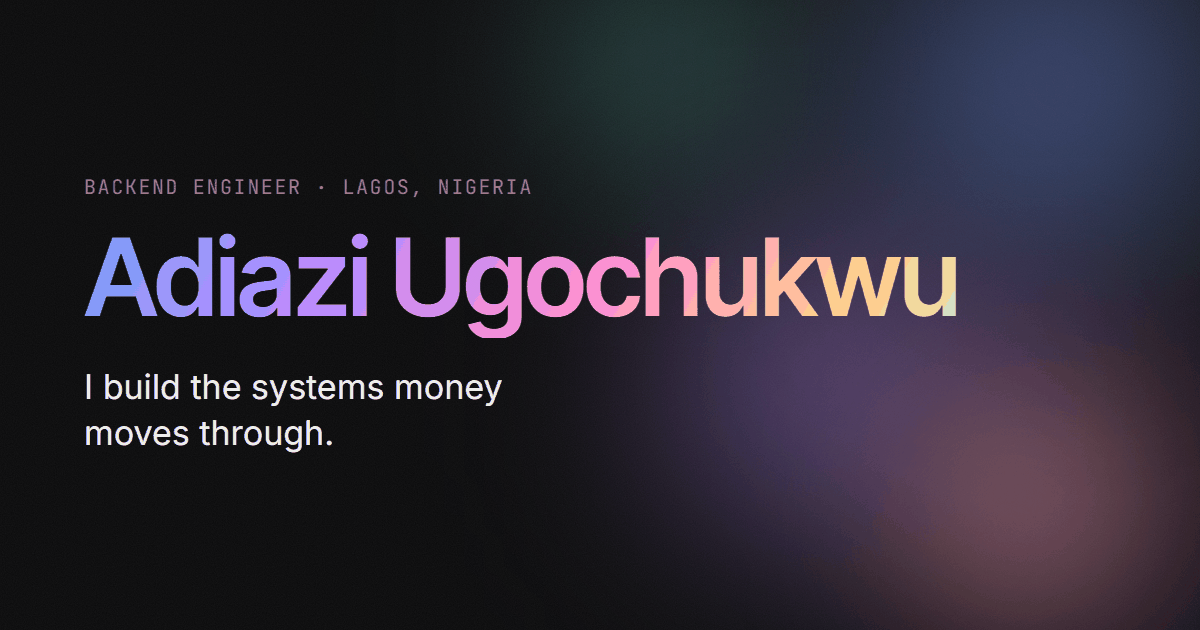
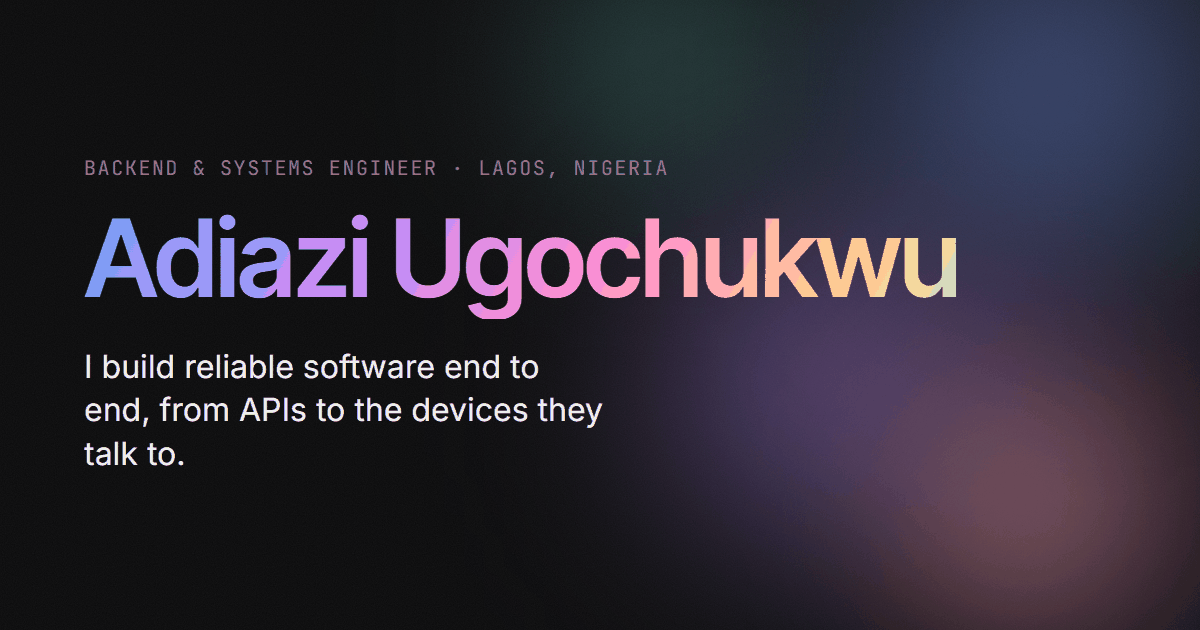
update

Changed region(s): [[0.0617, 0.2413, 0.8017, 0.5429], [0.0617, 0.5429, 0.5242, 0.754]]

diff --git a/index.html b/index.html
@@ -3,8 +3,8 @@
 <head>
   <meta charset="utf-8">
   <meta name="viewport" content="width=device-width, initial-scale=1">
-  <title>Adiazi Ugochukwu | Backend Engineer</title>
-  <meta name="description" content="Adiazi Ugochukwu is the co-founder and CTO of NePay and a backend engineer in Lagos building ledgers, payment rails and real time services.">
+  <title>Adiazi Ugochukwu | Backend &amp; Systems Engineer</title>
+  <meta name="description" content="Adiazi Ugochukwu is a backend and systems engineer in Lagos, and co-founder and CTO of NePay. He builds APIs, databases, real time services and embedded systems.">
   <meta name="author" content="Adiazi Ugochukwu">
   <meta name="theme-color" content="#0A0A0B" media="(prefers-color-scheme: dark)">
   <meta name="theme-color" content="#FAFAF9" media="(prefers-color-scheme: light)">
@@ -12,19 +12,19 @@
   <link rel="canonical" href="https://adiazi-ugochukwu-precious.vercel.app/">
   <meta property="og:type" content="website">
   <meta property="og:site_name" content="Adiazi Ugochukwu">
-  <meta property="og:title" content="Adiazi Ugochukwu | Backend Engineer">
-  <meta property="og:description" content="I build the systems money moves through: ledgers, payment rails and real time services.">
+  <meta property="og:title" content="Adiazi Ugochukwu | Backend &amp; Systems Engineer">
+  <meta property="og:description" content="I build reliable software end to end: APIs, databases, real time services and the devices they talk to.">
   <meta property="og:url" content="https://adiazi-ugochukwu-precious.vercel.app/">
   <meta property="og:image" content="https://adiazi-ugochukwu-precious.vercel.app/og-image.png">
   <meta property="og:image:width" content="1200">
   <meta property="og:image:height" content="630">
-  <meta property="og:image:alt" content="Adiazi Ugochukwu, backend engineer">
+  <meta property="og:image:alt" content="Adiazi Ugochukwu, backend and systems engineer">
   <meta name="twitter:card" content="summary_large_image">
   <meta name="twitter:site" content="@AdiaziU">
-  <meta name="twitter:title" content="Adiazi Ugochukwu | Backend Engineer">
-  <meta name="twitter:description" content="I build the systems money moves through: ledgers, payment rails and real time services.">
+  <meta name="twitter:title" content="Adiazi Ugochukwu | Backend &amp; Systems Engineer">
+  <meta name="twitter:description" content="I build reliable software end to end: APIs, databases, real time services and the devices they talk to.">
   <meta name="twitter:image" content="https://adiazi-ugochukwu-precious.vercel.app/og-image.png">
-  <meta name="twitter:image:alt" content="Adiazi Ugochukwu, backend engineer">
+  <meta name="twitter:image:alt" content="Adiazi Ugochukwu, backend and systems engineer">
   <link rel="icon" href="favicon.svg" type="image/svg+xml">
   <link rel="apple-touch-icon" href="apple-touch-icon.png">
 
@@ -95,31 +95,31 @@
 
       <div class="container hero__grid">
         <div class="hero__text">
-          <p class="label reveal">Backend engineer · Lagos, Nigeria</p>
+          <p class="label reveal">Backend &amp; systems engineer · Lagos, Nigeria</p>
           <h1 class="hero__name reveal" id="hero-name"><span class="chroma-text">Adiazi Ugochukwu</span></h1>
-          <p class="hero__line blur-text">I build the systems money moves through: ledgers, payment rails and real time services.</p>
+          <p class="hero__line blur-text">I build reliable software end to end: APIs, databases, real time services and the devices they talk to.</p>
           <div class="hero__cta reveal">
             <a class="btn btn--primary" href="#work">View my work</a>
             <a class="btn btn--ghost" href="cv/Adiazi_Ugochukwu_CV.pdf" download>Download CV</a>
           </div>
           <ul class="chips reveal" aria-label="Highlights">
             <li class="chip">Co-founder &amp; CTO @ NePay</li>
-            <li class="chip">Payments &amp; KYC integrations</li>
+            <li class="chip">Backend · Real time · Embedded</li>
             <li class="chip">Systems Engineering, UNILAG</li>
           </ul>
         </div>
 
-        <!--
-          Optional 3D chrome/iridescent object. To enable, add images/chroma-object.webp
-          (must be 200 KB or less, WebP, square works best) and uncomment the figure below.
-          It stays commented out by default so a missing file never causes a 404.
-          The layout is complete without it.
-        -->
-        <!--
-        <figure class="hero__object">
-          <img src="images/chroma-object.webp" width="520" height="520" alt="" fetchpriority="low">
-        </figure>
-        -->
+        <!-- Systems stack (decorative, 1200px and wider): the layers I work across, from the
+             device up to the interface. A signal lights each layer in turn, bottom to top. -->
+        <div class="stack" aria-hidden="true">
+          <div class="stack__scene">
+            <div class="stack__row" style="--i:0"><b>DEVICE</b><span>ESP32 · sensors</span><span>embedded C++</span></div>
+            <div class="stack__row" style="--i:1"><b>DATA</b><span>PostgreSQL · MongoDB</span><span>schemas · migrations</span></div>
+            <div class="stack__row" style="--i:2"><b>SERVICES</b><span>NestJS · Spring Boot</span><span>REST · auth · jobs</span></div>
+            <div class="stack__row" style="--i:3"><b>REAL TIME</b><span>Socket.io · queues</span><span>BullMQ</span></div>
+            <div class="stack__row" style="--i:4"><b>INTERFACE</b><span>Next.js · React</span><span>web · mobile</span></div>
+          </div>
+        </div>
       </div>
     </section>
 
@@ -128,12 +128,12 @@
       <div class="container grid">
         <div class="section__head">
           <p class="label section__index reveal">01 / About</p>
-          <h2 class="h2 reveal" id="about-title">I build whole products, from the ledger up</h2>
+          <h2 class="h2 reveal" id="about-title">I build systems, end to end</h2>
         </div>
         <div class="about__body prose">
-          <p class="reveal">I'm the co-founder and CTO of NePay, a Nigerian wallet built by Circle Technology Limited, and I lead its backend engineering. I'm also in my final year of Systems Engineering at the University of Lagos, graduating in September 2027. Before NePay, I led backend engineering at Grup Limited.</p>
-          <p class="reveal">At NePay I designed and built the entire backend as one NestJS and TypeScript service on PostgreSQL: signup, two factor login and KYC; wallets on an append-only ledger; naira, crypto and US dollar deposits; bank payouts; airtime, bills and gift cards; referrals and points; live support chat; and the admin panel our operations team runs the business from. Every provider sits behind its own adapter, so we can switch one without touching the rest.</p>
-          <p class="reveal">I work spec-first. Invariants get written down before code, every route is secure by default, and nothing is ‘done’ until an automated check says so. Outside fintech I've shipped Spring Boot services, real time commerce tools and smart home integrations, and the thread through all of it is the same: systems that stay correct when providers misbehave, networks drop and requests arrive twice.</p>
+          <p class="reveal">I'm a backend and systems engineer in Lagos, and a final year Systems Engineering student at the University of Lagos, graduating in September 2027. I like owning a system end to end: the API contract, the data model, the deployment, and the part where it has to keep working when something it depends on fails.</p>
+          <p class="reveal">I'm co-founder and CTO of NePay, where I designed and built the whole backend. Before that I led backend engineering at Grup Limited, a group buying platform, building the REST APIs behind its web and mobile apps and keeping uptime above 99.9%. During my industrial training at Albertronics I worked on smart home automation and embedded systems, and built the company's Next.js storefront with live admin updates. Earlier, I built Java and Spring Boot services for an online store at Phlames Fashion Stores, and cut downtime by 10% as an intern at PIPELINE.</p>
+          <p class="reveal">Most days I write TypeScript and Java (NestJS, Express, Spring Boot) against PostgreSQL, MongoDB and Redis, and I'm just as comfortable up the stack in Next.js and React or down it on an ESP32. My degree adds the other half: simulation, queuing theory and numerical methods shape how I think about load, failure and trade-offs. I work spec-first. Invariants get written down before code, and nothing is ‘done’ until an automated check says so.</p>
         </div>
       </div>
     </section>
@@ -194,10 +194,10 @@
           </div>
         </div>
 
-        <!-- Generic pattern only: no provider, company or employer specific details -->
+        <!-- General backend pattern (payments, messaging, IoT alike); no employer specific details -->
         <figure class="arch reveal">
-          <figcaption class="label arch__title">How I structure money-moving systems</figcaption>
-          <p class="sr-only">Client requests pass an API gateway with a JWT guard, then a wallet service that writes to an append-only ledger. The ledger calls a provider adapter, which talks to the payment provider. The provider reports back through a signature-verified webhook into the ledger.</p>
+          <figcaption class="label arch__title">How I structure a backend that talks to the outside world</figcaption>
+          <p class="sr-only">Client requests pass an API gateway with a JWT guard, then a domain service that writes to the database, the source of truth. Outbound calls go through a provider adapter to a third party API, which reports back through a signature-verified webhook that is recorded in the database.</p>
 
           <!-- Wide layout -->
           <svg class="arch__svg arch__svg--h" viewBox="0 0 1000 310" aria-hidden="true" focusable="false">
@@ -218,10 +218,10 @@
 
             <g class="node"><rect x="10" y="30" width="190" height="64" rx="12"/><text x="105" y="67">Client</text></g>
             <g class="node"><rect x="270" y="30" width="190" height="64" rx="12"/><text x="365" y="58">API Gateway</text><text class="sub" x="365" y="78">JWT guard</text></g>
-            <g class="node"><rect x="530" y="30" width="190" height="64" rx="12"/><text x="625" y="67">Wallet Service</text></g>
-            <g class="node"><rect x="790" y="30" width="190" height="64" rx="12"/><text x="885" y="58">Ledger</text><text class="sub" x="885" y="78">Append-only</text></g>
+            <g class="node"><rect x="530" y="30" width="190" height="64" rx="12"/><text x="625" y="67">Domain Service</text></g>
+            <g class="node"><rect x="790" y="30" width="190" height="64" rx="12"/><text x="885" y="58">Database</text><text class="sub" x="885" y="78">Source of truth</text></g>
             <g class="node"><rect x="790" y="230" width="190" height="64" rx="12"/><text x="885" y="267">Provider Adapter</text></g>
-            <g class="node"><rect x="530" y="230" width="190" height="64" rx="12"/><text x="625" y="267">Payment Provider</text></g>
+            <g class="node"><rect x="530" y="230" width="190" height="64" rx="12"/><text x="625" y="267">Third-party API</text></g>
             <text class="edge-label" x="612" y="186" text-anchor="end">Webhook</text>
             <text class="sub edge-label" x="612" y="204" text-anchor="end">signature-verified</text>
           </svg>
@@ -244,14 +244,14 @@
 
             <g class="node"><rect x="10" y="10" width="150" height="60" rx="12"/><text x="85" y="45">Client</text></g>
             <g class="node"><rect x="10" y="120" width="150" height="60" rx="12"/><text x="85" y="146">API Gateway</text><text class="sub" x="85" y="165">JWT guard</text></g>
-            <g class="node"><rect x="10" y="230" width="150" height="60" rx="12"/><text x="85" y="265">Wallet Service</text></g>
-            <g class="node"><rect x="10" y="340" width="150" height="60" rx="12"/><text x="85" y="366">Ledger</text><text class="sub" x="85" y="385">Append-only</text></g>
+            <g class="node"><rect x="10" y="230" width="150" height="60" rx="12"/><text x="85" y="265">Domain Service</text></g>
+            <g class="node"><rect x="10" y="340" width="150" height="60" rx="12"/><text x="85" y="366">Database</text><text class="sub" x="85" y="385">Source of truth</text></g>
             <g class="node"><rect x="200" y="340" width="150" height="60" rx="12"/><text x="275" y="375">Provider Adapter</text></g>
-            <g class="node"><rect x="200" y="470" width="150" height="60" rx="12"/><text x="275" y="505">Payment Provider</text></g>
+            <g class="node"><rect x="200" y="470" width="150" height="60" rx="12"/><text x="275" y="505">Third-party API</text></g>
             <text class="edge-label" x="98" y="444">Webhook</text>
             <text class="sub edge-label" x="98" y="462">signature-verified</text>
           </svg>
-          <p class="arch__more"><a href="nepay-ledger.html">See this pattern in production: the NePay ledger case study →</a></p>
+          <p class="arch__more"><a href="nepay-ledger.html">One place I used it in production: the NePay ledger case study →</a></p>
         </figure>
       </div>
     </section>

diff --git a/styles.css b/styles.css
@@ -521,6 +521,7 @@ h1, h2, h3 {
 }
 
 .hero__grid {
+  position: relative;
   display: grid;
   grid-template-columns: repeat(12, minmax(0, 1fr));
   column-gap: 24px;
@@ -569,14 +570,6 @@ h1, h2, h3 {
   background: color-mix(in srgb, var(--bg) 88%, transparent);
 }
 
-/* Optional chrome object slot (see comment in index.html) */
-.hero__object { display: none; margin: 0; }
-@media (min-width: 900px) {
-  .hero__object { display: block; grid-column: 9 / -1; grid-row: 1; justify-self: end; }
-  .hero__object img { width: 100%; height: auto; animation: float 9s ease-in-out infinite alternate; }
-  .hero__grid:has(.hero__object) .hero__text { grid-column: 1 / span 8; }
-}
-@keyframes float { to { transform: translateY(-14px) rotate(3deg); } }
 
 /* ---------- Utilities ---------- */
 .sr-only {
@@ -767,9 +760,16 @@ html.skill-active [data-skills]:not(.is-match) { opacity: 0.4; transition-delay:
   opacity: 0;
   transition: opacity 1.4s var(--ease);
 }
-.node { transition: filter 1.4s var(--ease); }
-.node.is-lit { filter: drop-shadow(0 0 10px color-mix(in srgb, #B98CFF 45%, transparent)); transition-duration: 0.3s; }
+/* The soft glow is a wide, faint gradient stroke behind the box, not a CSS filter:
+   drop-shadow on animated SVG groups tears and ghosts on some Android GPUs */
+.node__halo {
+  fill: none !important;
+  stroke-width: 10 !important;
+  opacity: 0;
+  transition: opacity 1.4s var(--ease);
+}
 .node.is-lit .node__glow { opacity: 1; transition-duration: 0.3s; }
+.node.is-lit .node__halo { opacity: 0.28; transition-duration: 0.3s; }
 .pulse__glow { opacity: 0.3; }
 @keyframes pulse-hue {
   0%, 100% { fill: #7C9CFF; }
@@ -1374,3 +1374,135 @@ tfoot td { font-weight: 500; border-top: 1px solid var(--border-strong); backgro
 }
 .diagram__hint { display: none; margin-bottom: 10px; }
 @media (max-width: 700px) { .diagram__hint { display: block; } }
+
+/* ---------- Albertronics: logo fills its card ---------- */
+.case__visual--logo::after { display: none; }
+.case__visual--logo { background: #1a0d10; }
+.case__logo-bg {
+  position: absolute;
+  inset: 0;
+  width: 100%;
+  height: 100%;
+  object-fit: cover;
+  transform: scale(1.4);
+  filter: blur(26px) grayscale(1);
+  opacity: 0.75;
+  transition: filter 0.5s var(--ease);
+}
+.case__visual--logo .case__logo {
+  position: absolute;
+  inset: 0;
+  margin: auto;
+  width: auto;
+  height: 100%;
+  max-width: 100%;
+  object-fit: contain;
+  transform: none;
+  border: 0;
+  border-radius: 0;
+  box-shadow: none;
+}
+.case:hover .case__logo-bg,
+.case.is-match .case__logo-bg { filter: blur(26px); }
+
+/* ---------- Case study links ---------- */
+.arch__more { margin: 20px 0 0; font-size: 15px; }
+.arch__more a { color: var(--text); text-decoration: none; border-bottom: 1px solid var(--border-strong); }
+.arch__more a:hover { border-color: var(--text); }
+
+.cs-banner {
+  display: grid;
+  gap: 8px;
+  margin-top: 24px;
+  padding: clamp(24px, 3vw, 36px);
+  text-decoration: none;
+  color: var(--text);
+}
+.cs-banner__title { font-family: var(--font-head); font-weight: 600; letter-spacing: -0.02em; font-size: clamp(1.4rem, 1.1rem + 1vw, 2rem); line-height: 1.15; }
+.cs-banner__text { color: var(--muted); max-width: 40em; }
+.cs-banner__cta {
+  justify-self: start;
+  margin-top: 8px;
+  font-family: var(--font-mono);
+  font-size: 12px;
+  text-transform: uppercase;
+  letter-spacing: 0.08em;
+  padding-bottom: 2px;
+  border-bottom: 1px solid var(--border-strong);
+}
+.cs-banner:hover .cs-banner__cta { border-color: var(--text); }
+
+/* ---------- Hero: systems stack (wide screens only) ----------
+   The layers I work across, from the device up to the interface, as frosted panels
+   in a tilted stack. A signal lights each layer in turn, bottom to top, then repeats. */
+.stack { display: none; }
+@media (min-width: 1200px) {
+  .stack {
+    display: block;
+    position: absolute;
+    right: calc(var(--gutter) - 48px);
+    top: 50%;
+    width: 360px;
+    height: 460px;
+    transform: translateY(-36%);
+    perspective: 1400px;
+    pointer-events: none;
+  }
+}
+.stack__scene {
+  position: absolute;
+  inset: 0;
+  transform-style: preserve-3d;
+  transform: rotateX(calc(58deg + var(--ty, 0) * 1deg)) rotateZ(calc(-36deg + var(--tx, 0) * 1deg));
+  animation: stack-float 7s ease-in-out infinite alternate;
+}
+@keyframes stack-float { to { translate: 0 -10px; } }
+.stack__row {
+  position: absolute;
+  left: 25px;
+  top: 190px;
+  width: 310px;
+  height: 56px;
+  display: grid;
+  grid-template-columns: 84px 1fr;
+  grid-template-rows: auto;
+  align-content: center;
+  column-gap: 12px;
+  padding: 0 18px;
+  border-radius: 14px;
+  background: color-mix(in srgb, var(--surface) 88%, transparent);
+  border: 1px solid var(--border-strong);
+  box-shadow: 0 24px 40px -24px rgba(0, 0, 0, 0.55);
+  transform: translateZ(calc(var(--i) * 52px));
+  font-family: var(--font-mono);
+  font-size: 11px;
+  letter-spacing: 0.05em;
+  color: var(--muted);
+}
+.stack__row b { align-self: center; font-weight: 500; letter-spacing: 0.08em; color: var(--text); }
+.stack__row span:first-of-type { align-self: center; color: var(--text); white-space: nowrap; }
+/* One line per layer keeps the tilted stack legible */
+.stack__row span:last-child { display: none; }
+/* The signal: each layer's chroma edge lights in sequence, device first */
+.stack__row::before {
+  content: "";
+  position: absolute;
+  inset: -1px;
+  padding: 1px;
+  border-radius: inherit;
+  background: var(--chroma);
+  -webkit-mask: linear-gradient(#000 0 0) content-box, linear-gradient(#000 0 0);
+  -webkit-mask-composite: xor;
+  mask-composite: exclude;
+  opacity: 0;
+  animation: layer-lit 5s ease-in-out infinite;
+  animation-delay: calc(var(--i) * 0.55s);
+}
+@keyframes layer-lit {
+  0%, 100% { opacity: 0; }
+  8% { opacity: 1; }
+  30% { opacity: 0.15; }
+  55% { opacity: 0; }
+}
+.hero.is-paused .stack__scene,
+.hero.is-paused .stack__row::before { animation-play-state: paused; }

diff --git a/main.js b/main.js
@@ -214,10 +214,16 @@ if (arch) {
     const gradId = svg.querySelector('linearGradient').id;
     const nodes = [...svg.querySelectorAll('.node')].map((g) => {
       const rect = g.querySelector('rect');
+      // Two plain SVG copies of the box, no filters: a thin chroma outline on top,
+      // and a wide faint stroke behind it (the box's fill hides its inner half) as the glow
       const glow = rect.cloneNode();
       glow.classList.add('node__glow');
       glow.style.stroke = `url(#${gradId})`;
       rect.after(glow);
+      const halo = rect.cloneNode();
+      halo.classList.add('node__halo');
+      halo.style.stroke = `url(#${gradId})`;
+      rect.before(halo);
       const [x, y, w, h] = ['x', 'y', 'width', 'height'].map((a) => +rect.getAttribute(a));
       return { g, x, y, w, h };
     });
@@ -399,6 +405,7 @@ function initHero() {
   const hero = document.querySelector('.hero');
   const bg = hero?.querySelector('.hero__bg');
   const canvas = bg?.querySelector('canvas');
+  const stack = hero?.querySelector('.stack');
   // Reduced motion: the CSS blobs stay still, which is the single static gradient frame
   if (!canvas || reducedMotion) return;
 
@@ -447,6 +454,9 @@ function initHero() {
       drift.x += dx;
       drift.y += dy;
       bg.style.transform = `translate3d(${drift.x.toFixed(2)}px, ${drift.y.toFixed(2)}px, 0)`;
+      // The systems stack tilts a few degrees with the same lerped pointer
+      stack?.style.setProperty('--tx', (drift.x / 5).toFixed(2));
+      stack?.style.setProperty('--ty', (-drift.y / 5).toFixed(2));
     }
     draw?.((now - start) / 1000);
   };
@@ -456,6 +466,7 @@ function initHero() {
   const update = () => {
     const run = heroVisible && !document.hidden;
     bg.classList.toggle('is-paused', !run);
+    hero.classList.toggle('is-paused', !run);
     if (run && !raf && finePointer) raf = requestAnimationFrame(tick);
     if (!run && raf) { cancelAnimationFrame(raf); raf = 0; }
   };

diff --git a/404.html b/404.html
@@ -28,7 +28,7 @@
     </div>
     <div class="container">
       <p class="label">404 · Not found</p>
-      <h1 class="notfound__title"><span class="chroma-text">This page isn't in the ledger.</span></h1>
+      <h1 class="notfound__title"><span class="chroma-text">Nothing is deployed at this address.</span></h1>
       <p class="muted notfound__line">The link may be old, or the address has a typo.</p>
       <a class="btn btn--primary" href="/">Back to the homepage</a>
     </div>
